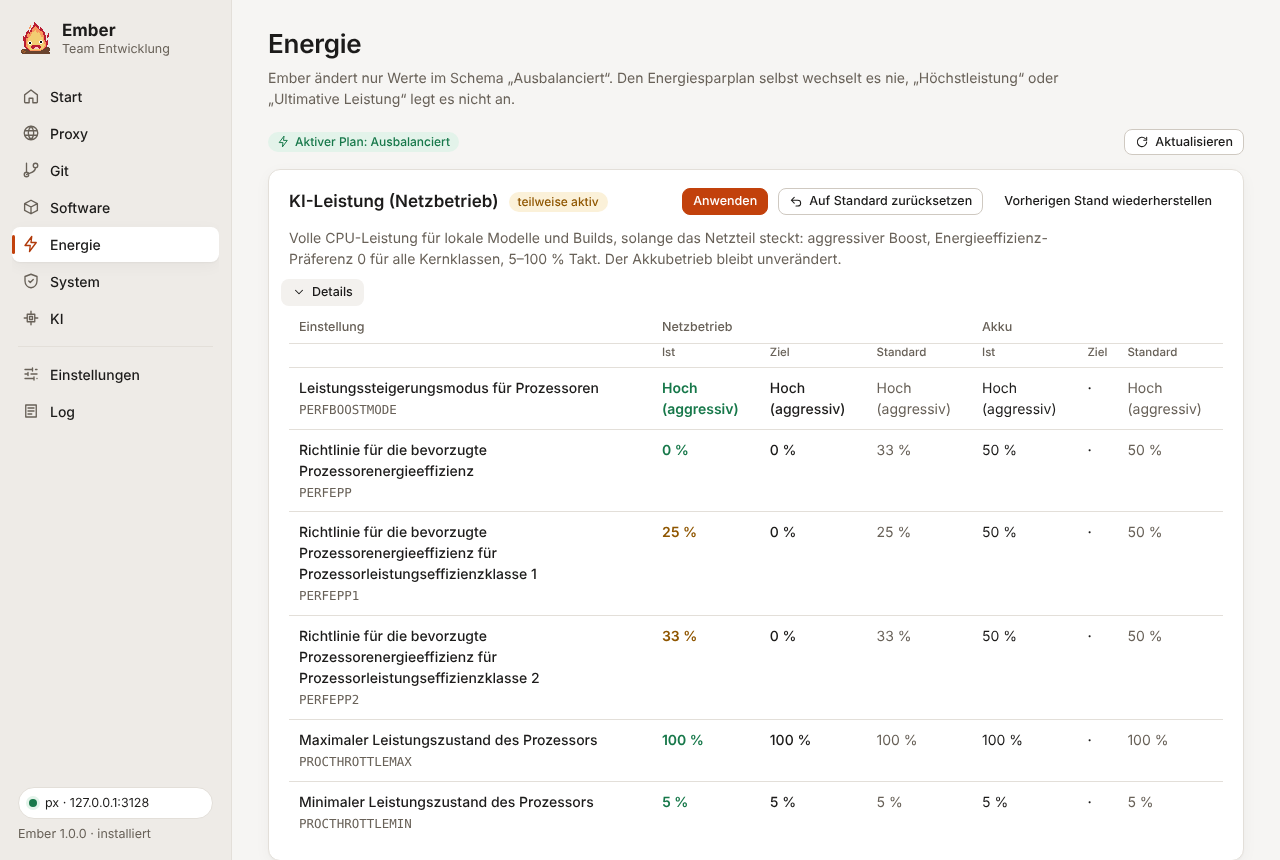
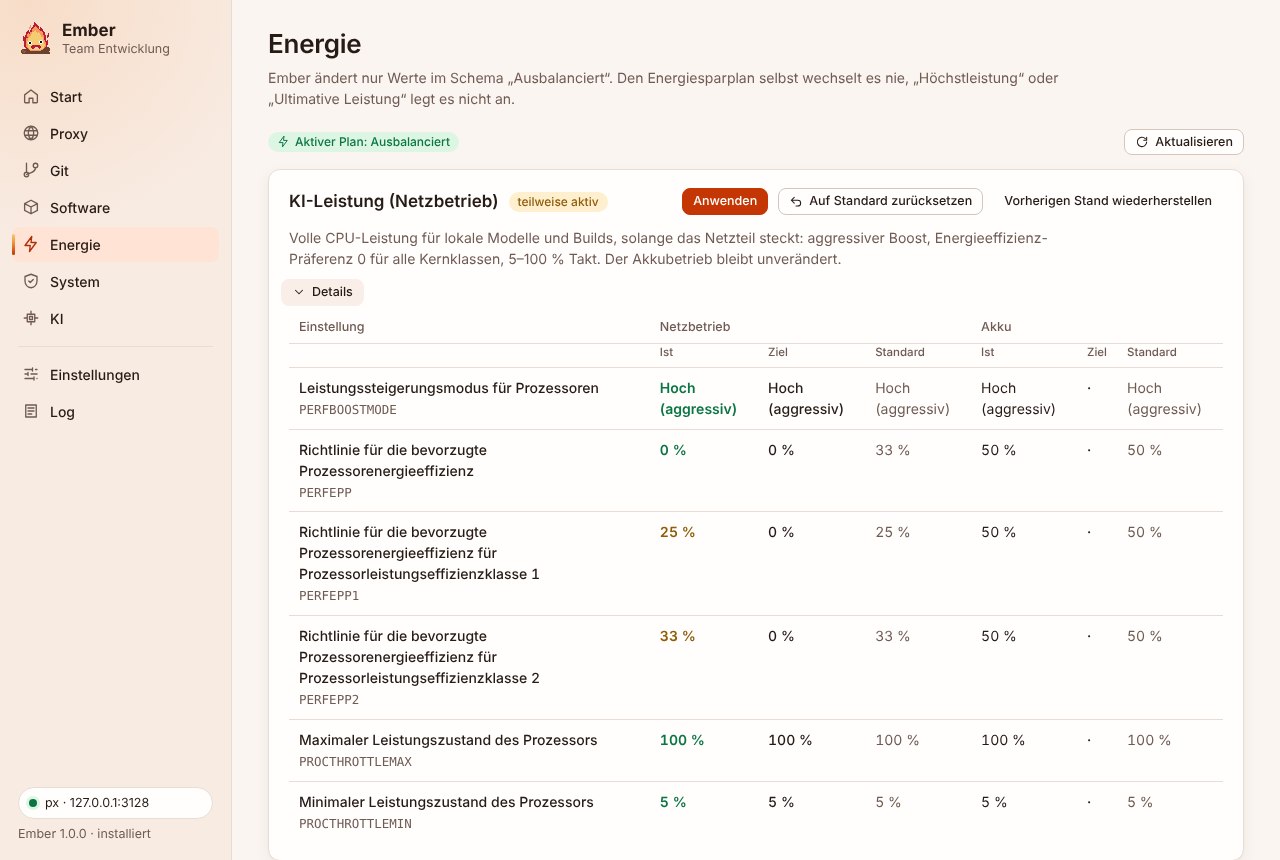
feat: Oberfläche in Calcifers Farben
Warme Neutraltöne (Papier bei Tag, Holzkohle bei Nacht), ein Glut-Akzent
für Aktionen, Auswahl und Fokus und der Flammenverlauf Rot-Orange-Gelb
für Fortschritt und die aktive Seite. Die Seitenleiste glüht leicht
hinter dem Logo. Fehler sind karminrot und damit klar vom Akzent
getrennt. Auswahl, Cursor, Scrollbalken und Schatten folgen der Palette,
die Doku nutzt dieselben Farben. Alle Textkontraste erfüllen WCAG AA.

Claude-Session: https://claude.ai/code/session_01LUVJvU9LdERYGYo1PQwHTY

diff --git a/ui/src/app.css b/ui/src/app.css
@@ -1,27 +1,36 @@
-/* Ember – warm, calm, readable. Light and dark follow Windows (prefers-color-scheme). */
+/* Ember – warm, calm, readable, in Calcifer's colours. Light and dark follow Windows (prefers-color-scheme). */
 :root {
-  --bg: #f6f5f3;
-  --sidebar: #eeebe7;
-  --surface: #ffffff;
-  --surface-2: #f3f1ee;
-  --border: #e3dfd9;
-  --border-strong: #cfc9c1;
-  --text: #1c1b1a;
-  --text-muted: #686158;
-  --accent: #c2410c;
-  --accent-hover: #a3360a;
+  /* Calcifer by day: warm paper, a glowing ember accent, crimson only for errors. */
+  --bg: #faf5f0;
+  --sidebar: #f8ebe2;
+  --surface: #fffefd;
+  --surface-2: #f6efe9;
+  --border: #e8ddd6;
+  --border-strong: #d5c6bc;
+  --text: #271b16;
+  --text-muted: #705b53;
+  --accent: #c43603;
+  --accent-hover: #aa280d;
   --accent-text: #ffffff;
-  --accent-soft: #fbeae1;
-  --accent-fg: #b03a0a;
-  --ok: #17784a;
-  --ok-soft: #e3f3ea;
-  --warn: #8f5600;
-  --warn-soft: #fbf1d9;
-  --error: #b42318;
-  --error-soft: #fcebe9;
-  --info: #285b8f;
-  --info-soft: #e6eff8;
-  --shadow: 0 1px 2px rgb(0 0 0 / 0.04), 0 4px 16px rgb(0 0 0 / 0.04);
+  --accent-soft: #ffe3d5;
+  --accent-fg: #af2f09;
+  --glow: #f39340;
+  --core: #f5cb70;
+  --hearth: rgb(243 147 64 / 0.16);
+  --ok: #0b7643;
+  --ok-soft: #ddf6e4;
+  --warn: #915c08;
+  --warn-soft: #feefcf;
+  --error: #b61537;
+  --error-soft: #fee8e9;
+  --info: #295e90;
+  --info-soft: #e5f0fc;
+  --shadow: 0 1px 2px rgb(64 32 16 / 0.05), 0 4px 16px rgb(64 32 16 / 0.05);
+  --shadow-lift: 0 10px 28px -8px rgb(64 32 16 / 0.18);
+  --backdrop: rgb(39 27 22 / 0.4);
+  /* The flame: red at the base, orange, yellow core. Only where fire means something (progress, the current page). */
+  --ember: linear-gradient(90deg, var(--accent), var(--glow) 65%, var(--core));
+  --ember-up: linear-gradient(0deg, var(--accent), var(--glow) 60%, var(--core));
   --radius: 12px;
   --radius-small: 8px;
   --font: 'Segoe UI Variable Text', 'Segoe UI', system-ui, -apple-system, 'Noto Sans', sans-serif;
@@ -32,28 +41,34 @@
 
 @media (prefers-color-scheme: dark) {
   :root {
-    --bg: #1c1b1a;
-    --sidebar: #191817;
-    --surface: #252321;
-    --surface-2: #2e2c29;
-    --border: #3a3733;
-    --border-strong: #4a4641;
-    --text: #f2efea;
-    --text-muted: #a9a198;
-    --accent: #f08a4b;
-    --accent-hover: #f6a370;
-    --accent-text: #1c1209;
-    --accent-soft: #3b291d;
-    --accent-fg: #f6a370;
-    --ok: #63cc93;
-    --ok-soft: #1d3327;
-    --warn: #e9b65c;
-    --warn-soft: #382f1b;
-    --error: #f38a80;
-    --error-soft: #3d2320;
-    --info: #86b5e8;
-    --info-soft: #1e2b3a;
-    --shadow: 0 1px 2px rgb(0 0 0 / 0.3), 0 4px 16px rgb(0 0 0 / 0.25);
+    /* Calcifer by night: charcoal surfaces, the accent glows orange. */
+    --bg: #1a1310;
+    --sidebar: #160d0a;
+    --surface: #251c18;
+    --surface-2: #2f2520;
+    --border: #3c302a;
+    --border-strong: #53443d;
+    --text: #f3ede6;
+    --text-muted: #b7a89b;
+    --accent: #f48645;
+    --accent-hover: #fca25f;
+    --accent-text: #22110b;
+    --accent-soft: #492517;
+    --accent-fg: #ffa661;
+    --glow: #fea849;
+    --core: #f8d376;
+    --hearth: rgb(244 134 69 / 0.13);
+    --ok: #6cd092;
+    --ok-soft: #173221;
+    --warn: #edbb64;
+    --warn-soft: #3c2a0e;
+    --error: #f17993;
+    --error-soft: #472028;
+    --info: #80b7e7;
+    --info-soft: #1a2d3e;
+    --shadow: 0 1px 2px rgb(0 0 0 / 0.35), 0 4px 16px rgb(0 0 0 / 0.28);
+    --shadow-lift: 0 12px 30px -8px rgb(0 0 0 / 0.55);
+    --backdrop: rgb(10 6 4 / 0.6);
     color-scheme: dark;
   }
 }
@@ -69,6 +84,8 @@ html, body {
   font-size: 14px;
   line-height: 1.5;
   -webkit-font-smoothing: antialiased;
+  caret-color: var(--accent);
+  scrollbar-color: var(--border-strong) transparent;
 }
 
 #app { height: 100%; }
@@ -78,7 +95,8 @@ h1 { font-size: 26px; font-weight: 600; letter-spacing: -0.01em; }
 h2 { font-size: 17px; font-weight: 600; }
 h3 { font-size: 14px; font-weight: 600; }
 p { margin: 0; }
-a { color: var(--accent-fg); }
+a { color: var(--accent-fg); text-underline-offset: 3px; text-decoration-color: color-mix(in srgb, var(--accent-fg) 45%, transparent); }
+a:hover { text-decoration-color: currentColor; }
 code, .mono { font-family: var(--mono); font-size: 12.5px; }
 .muted { color: var(--text-muted); }
 .small { font-size: 12.5px; }
@@ -127,12 +145,15 @@ code, .mono { font-family: var(--mono); font-size: 12.5px; }
 .btn:focus-visible, input:focus-visible, select:focus-visible, textarea:focus-visible {
   outline: 2px solid var(--accent); outline-offset: 2px;
 }
-.btn.primary { background: var(--accent); border-color: var(--accent); color: var(--accent-text); }
-.btn.primary:hover:not(:disabled) { background: var(--accent-hover); border-color: var(--accent-hover); }
+.btn.primary { background: var(--accent); border-color: var(--accent); color: var(--accent-text); transition: background 0.15s, border-color 0.15s, box-shadow 0.2s, transform 0.05s; }
+.btn.primary:hover:not(:disabled) {
+  background: var(--accent-hover); border-color: var(--accent-hover);
+  box-shadow: 0 3px 10px -3px color-mix(in srgb, var(--accent) 70%, transparent);
+}
 .btn.danger { color: var(--error); border-color: color-mix(in srgb, var(--error) 45%, var(--border)); }
 .btn.danger:hover:not(:disabled) { background: var(--error-soft); }
 .btn.ghost { border-color: transparent; background: transparent; }
-.btn.ghost:hover:not(:disabled) { background: var(--surface-2); }
+.btn.ghost:hover:not(:disabled) { background: color-mix(in srgb, var(--accent) 8%, transparent); }
 .btn.small { padding: 3px 10px; min-height: 26px; font-size: 12.5px; }
 
 /* ---- forms ---- */
@@ -150,6 +171,8 @@ input[type='text'], input[type='number'], input[type='url'], input:not([type]), 
   width: 100%;
 }
 textarea { resize: vertical; min-height: 80px; }
+input:focus-visible, select:focus-visible, textarea:focus-visible { border-color: var(--accent); }
+::placeholder { color: var(--text-muted); opacity: 1; }
 input[type='checkbox'], input[type='radio'] { accent-color: var(--accent); width: 16px; height: 16px; margin: 0; }
 .check { display: flex; align-items: center; gap: 8px; cursor: pointer; }
 
@@ -168,26 +191,31 @@ input[type='checkbox'], input[type='radio'] { accent-color: var(--accent); width
 .dot { width: 8px; height: 8px; border-radius: 50%; background: currentColor; display: inline-block; }
 
 /* ---- notes ---- */
+/* A plain note is a warm hint (firelight on paper); warn, error and info carry their own colours. */
 .note {
   display: flex; gap: 10px; align-items: flex-start;
   padding: 10px 14px; border-radius: var(--radius-small);
-  background: var(--info-soft); color: var(--text);
-  border: 1px solid color-mix(in srgb, var(--info) 20%, transparent);
+  background: color-mix(in srgb, var(--glow) 7%, var(--surface)); color: var(--text);
+  border: 1px solid color-mix(in srgb, var(--glow) 24%, var(--border));
 }
+.note.info { background: var(--info-soft); border-color: color-mix(in srgb, var(--info) 20%, transparent); }
 .note.warn { background: var(--warn-soft); border-color: color-mix(in srgb, var(--warn) 25%, transparent); }
 .note.error { background: var(--error-soft); border-color: color-mix(in srgb, var(--error) 25%, transparent); }
-.note > svg { flex: none; margin-top: 2px; }
+.note > svg { flex: none; margin-top: 2px; color: var(--accent-fg); }
+.note.info > svg { color: var(--info); }
+.note.warn > svg { color: var(--warn); }
+.note.error > svg { color: var(--error); }
 .note:has(> .calcifer) { align-items: center; }
 
 /* ---- tables ---- */
 table.table { width: 100%; border-collapse: collapse; }
 .table th { text-align: left; font-weight: 500; color: var(--text-muted); font-size: 12.5px; padding: 6px 10px; border-bottom: 1px solid var(--border); }
-.table td { padding: 9px 10px; border-bottom: 1px solid var(--border); vertical-align: top; }
+.table td { padding: 9px 10px; border-bottom: 1px solid var(--border); vertical-align: top; font-variant-numeric: tabular-nums; }
 .table tr:last-child td { border-bottom: none; }
 
 /* ---- progress ---- */
 .progress { height: 4px; border-radius: 2px; background: var(--surface-2); overflow: hidden; }
-.progress > div { height: 100%; background: var(--accent); transition: width 0.25s ease; }
+.progress > div { height: 100%; background: var(--ember); border-radius: inherit; transition: width 0.25s ease; }
 .progress.indeterminate > div { width: 35% !important; animation: slide 1.1s ease-in-out infinite; }
 @keyframes slide { from { transform: translateX(-100%); } to { transform: translateX(300%); } }
 
@@ -195,4 +223,4 @@ table.table { width: 100%; border-collapse: collapse; }
   *, *::before, *::after { animation-duration: 0.01ms !important; transition-duration: 0.01ms !important; }
 }
 
-::selection { background: color-mix(in srgb, var(--accent) 30%, transparent); }
+::selection { background: color-mix(in srgb, var(--glow) 38%, transparent); color: var(--text); }

diff --git a/docs/src/styles/ember.css b/docs/src/styles/ember.css
@@ -1,35 +1,37 @@
-/* Ember colours for Starlight (warm orange accent, like the app). */
+/* Ember colours for Starlight: the same Calcifer palette as the app (charcoal at night, warm paper by day). */
 :root {
-  --sl-color-accent-low: #3b291d;
-  --sl-color-accent: #e0702f;
-  --sl-color-accent-high: #f6c3a1;
-  --sl-color-white: #f8f6f3;
-  --sl-color-gray-1: #ebe7e2;
-  --sl-color-gray-2: #c9c2ba;
-  --sl-color-gray-3: #9b9289;
-  --sl-color-gray-4: #5f5851;
-  --sl-color-gray-5: #3a3632;
-  --sl-color-gray-6: #272421;
-  --sl-color-black: #1c1b1a;
+  --sl-color-accent-low: #492517;
+  --sl-color-accent: #f48645;
+  --sl-color-accent-high: #ffd5bb;
+  --sl-color-white: #f3ede6;
+  --sl-color-gray-1: #e9e0d8;
+  --sl-color-gray-2: #c8bab0;
+  --sl-color-gray-3: #a39388;
+  --sl-color-gray-4: #5f5048;
+  --sl-color-gray-5: #3c302a;
+  --sl-color-gray-6: #251c18;
+  --sl-color-black: #1a1310;
 }
 
 :root[data-theme='light'] {
-  --sl-color-accent-low: #fbe3d6;
-  --sl-color-accent: #b03a0a;
-  --sl-color-accent-high: #5e2105;
-  --sl-color-white: #1c1b1a;
-  --sl-color-gray-1: #272421;
-  --sl-color-gray-2: #3a3632;
-  --sl-color-gray-3: #5f5851;
-  --sl-color-gray-4: #9b9289;
-  --sl-color-gray-5: #c9c2ba;
-  --sl-color-gray-6: #ebe7e2;
-  --sl-color-gray-7: #f6f5f3;
-  --sl-color-black: #ffffff;
+  --sl-color-accent-low: #ffe3d5;
+  --sl-color-accent: #af2f09;
+  --sl-color-accent-high: #5c1a06;
+  --sl-color-white: #271b16;
+  --sl-color-gray-1: #33251f;
+  --sl-color-gray-2: #4a3a32;
+  --sl-color-gray-3: #6d5b52;
+  --sl-color-gray-4: #9b8a80;
+  --sl-color-gray-5: #d5c6bc;
+  --sl-color-gray-6: #f6efe9;
+  --sl-color-gray-7: #faf5f0;
+  --sl-color-black: #fffefd;
 }
+
+::selection { background: color-mix(in srgb, #f39340 38%, transparent); }
 
 .sl-markdown-content img {
   border: 1px solid var(--sl-color-gray-5);
   border-radius: 10px;
-  box-shadow: 0 4px 18px rgb(0 0 0 / 0.08);
+  box-shadow: 0 4px 18px -4px rgb(64 32 16 / 0.14);
 }

diff --git a/ui/src/App.svelte b/ui/src/App.svelte
@@ -136,8 +136,10 @@
   @media (prefers-reduced-motion: reduce) { .loading img { animation: none; } }
 
   .shell { display: grid; grid-template-columns: 232px 1fr; height: 100%; }
+  /* The sidebar is the hearth: a soft glow behind Calcifer, fading out further down. */
   .sidebar {
-    background: var(--sidebar); border-right: 1px solid var(--border);
+    background: radial-gradient(ellipse 150% 38% at 12% 0%, var(--hearth), transparent 72%), var(--sidebar);
+    border-right: 1px solid var(--border);
     display: flex; flex-direction: column; padding: 16px 12px; gap: 18px; min-height: 0;
   }
   .brand { display: flex; align-items: center; gap: 10px; padding: 4px 8px; }
@@ -149,10 +151,10 @@
     display: flex; align-items: center; gap: 10px; padding: 7px 10px; border-radius: var(--radius-small);
     color: var(--text); text-decoration: none; font-weight: 500; position: relative;
   }
-  nav a:hover { background: color-mix(in srgb, var(--text) 6%, transparent); }
-  nav a.active { background: var(--surface); box-shadow: var(--shadow); }
+  nav a:hover { background: color-mix(in srgb, var(--accent) 7%, transparent); }
+  nav a.active { background: var(--accent-soft); }
   nav a.active::before {
-    content: ''; position: absolute; left: 0; top: 8px; bottom: 8px; width: 3px; border-radius: 2px; background: var(--accent);
+    content: ''; position: absolute; left: 0; top: 7px; bottom: 7px; width: 3px; border-radius: 2px; background: var(--ember-up);
   }
   nav a :global(svg) { color: var(--text-muted); }
   nav a.active :global(svg) { color: var(--accent-fg); }

diff --git a/ui/src/lib/components/Toasts.svelte b/ui/src/lib/components/Toasts.svelte
@@ -25,12 +25,12 @@
   .toasts { position: fixed; right: 20px; bottom: 20px; display: flex; flex-direction: column; gap: 8px; z-index: 50; max-width: min(460px, calc(100vw - 40px)); }
   .toast {
     display: flex; align-items: flex-start; gap: 10px; padding: 10px 10px 10px 14px;
-    background: var(--surface); border: 1px solid var(--border); border-left: 4px solid var(--info);
-    border-radius: var(--radius-small); box-shadow: 0 8px 28px rgb(0 0 0 / 0.16);
+    background: var(--surface); border: 1px solid color-mix(in srgb, var(--info) 30%, var(--border));
+    border-radius: var(--radius-small); box-shadow: var(--shadow-lift);
   }
-  .toast.ok { border-left-color: var(--ok); }
+  .toast.ok { border-color: color-mix(in srgb, var(--ok) 35%, var(--border)); }
   .toast.ok > :global(svg) { color: var(--ok); }
-  .toast.error { border-left-color: var(--error); }
+  .toast.error { border-color: color-mix(in srgb, var(--error) 40%, var(--border)); background: var(--error-soft); }
   .toast.error > :global(svg) { color: var(--error); }
   .toast > :global(svg) { flex: none; margin-top: 2px; color: var(--info); }
   p { flex: 1; }

diff --git a/ui/src/lib/components/MailDialog.svelte b/ui/src/lib/components/MailDialog.svelte
@@ -96,11 +96,11 @@
 
 <style>
   .layer { position: fixed; inset: 0; z-index: 40; display: flex; align-items: flex-start; justify-content: center; padding-top: 8vh; }
-  .backdrop { position: absolute; inset: 0; background: rgb(0 0 0 / 0.35); }
+  .backdrop { position: absolute; inset: 0; background: var(--backdrop); }
   .dialog {
     position: relative; width: min(620px, calc(100vw - 40px)); max-height: 84vh; overflow: auto;
     background: var(--surface); border: 1px solid var(--border); border-radius: var(--radius);
-    box-shadow: 0 24px 60px rgb(0 0 0 / 0.3); padding: 22px 24px;
+    box-shadow: var(--shadow-lift), 0 24px 60px -12px rgb(0 0 0 / 0.3); padding: 22px 24px;
     display: flex; flex-direction: column; gap: 12px;
   }
   .preview { background: var(--surface-2); border-radius: var(--radius-small); padding: 10px 14px; }

diff --git a/ui/src/lib/components/ConfirmDialog.svelte b/ui/src/lib/components/ConfirmDialog.svelte
@@ -27,12 +27,12 @@
 
 <style>
   .layer { position: fixed; inset: 0; z-index: 40; display: flex; align-items: flex-start; justify-content: center; padding-top: 18vh; }
-  .backdrop { position: absolute; inset: 0; background: rgb(0 0 0 / 0.35); }
+  .backdrop { position: absolute; inset: 0; background: var(--backdrop); }
   .dialog {
     position: relative;
     width: min(520px, calc(100vw - 40px));
     background: var(--surface); border: 1px solid var(--border); border-radius: var(--radius);
-    box-shadow: 0 24px 60px rgb(0 0 0 / 0.3); padding: 22px 24px;
+    box-shadow: var(--shadow-lift), 0 24px 60px -12px rgb(0 0 0 / 0.3); padding: 22px 24px;
     display: flex; flex-direction: column; gap: 12px;
   }
   .dialog p { white-space: pre-line; color: var(--text-muted); }

diff --git a/ui/src/lib/components/JobView.svelte b/ui/src/lib/components/JobView.svelte
@@ -62,7 +62,7 @@
   .step.failed { background: var(--error-soft); }
   .icon { width: 22px; height: 22px; border-radius: 50%; display: grid; place-items: center; flex: none; background: var(--surface-2); color: var(--text-muted); }
   .step.done .icon { background: var(--ok-soft); color: var(--ok); }
-  .step.failed .icon { background: var(--error); color: #fff; }
+  .step.failed .icon { background: var(--error); color: var(--surface); }
   .step.running .icon { background: var(--accent); color: var(--accent-text); }
   .step.running .icon :global(svg) { animation: spin 1.2s linear infinite; }
   .step.skipped { opacity: 0.6; }

diff --git a/ui/src/pages/Start.svelte b/ui/src/pages/Start.svelte
@@ -97,7 +97,7 @@
     display: flex; flex-direction: column; gap: 8px; border-top: 3px solid var(--border-strong);
     transition: transform 0.15s, box-shadow 0.15s;
   }
-  .status:hover { transform: translateY(-2px); box-shadow: 0 8px 24px rgb(0 0 0 / 0.08); }
+  .status:hover { transform: translateY(-2px); box-shadow: var(--shadow-lift); }
   .status.ok { border-top-color: var(--ok); }
   .status.warn { border-top-color: var(--warn); }
   .icon { width: 30px; height: 30px; border-radius: 8px; display: grid; place-items: center; background: var(--surface-2); color: var(--text-muted); }

diff --git a/ui/src/pages/Settings.svelte b/ui/src/pages/Settings.svelte
@@ -244,6 +244,6 @@
   .savebar {
     position: sticky; bottom: 0; margin-top: 16px; display: flex; align-items: center; gap: 10px;
     padding: 10px 14px; border-radius: var(--radius); background: var(--surface);
-    border: 1px solid var(--border); box-shadow: 0 -4px 20px rgb(0 0 0 / 0.08);
+    border: 1px solid var(--border); box-shadow: 0 -6px 20px -8px rgb(64 32 16 / 0.16);
   }
 </style>
